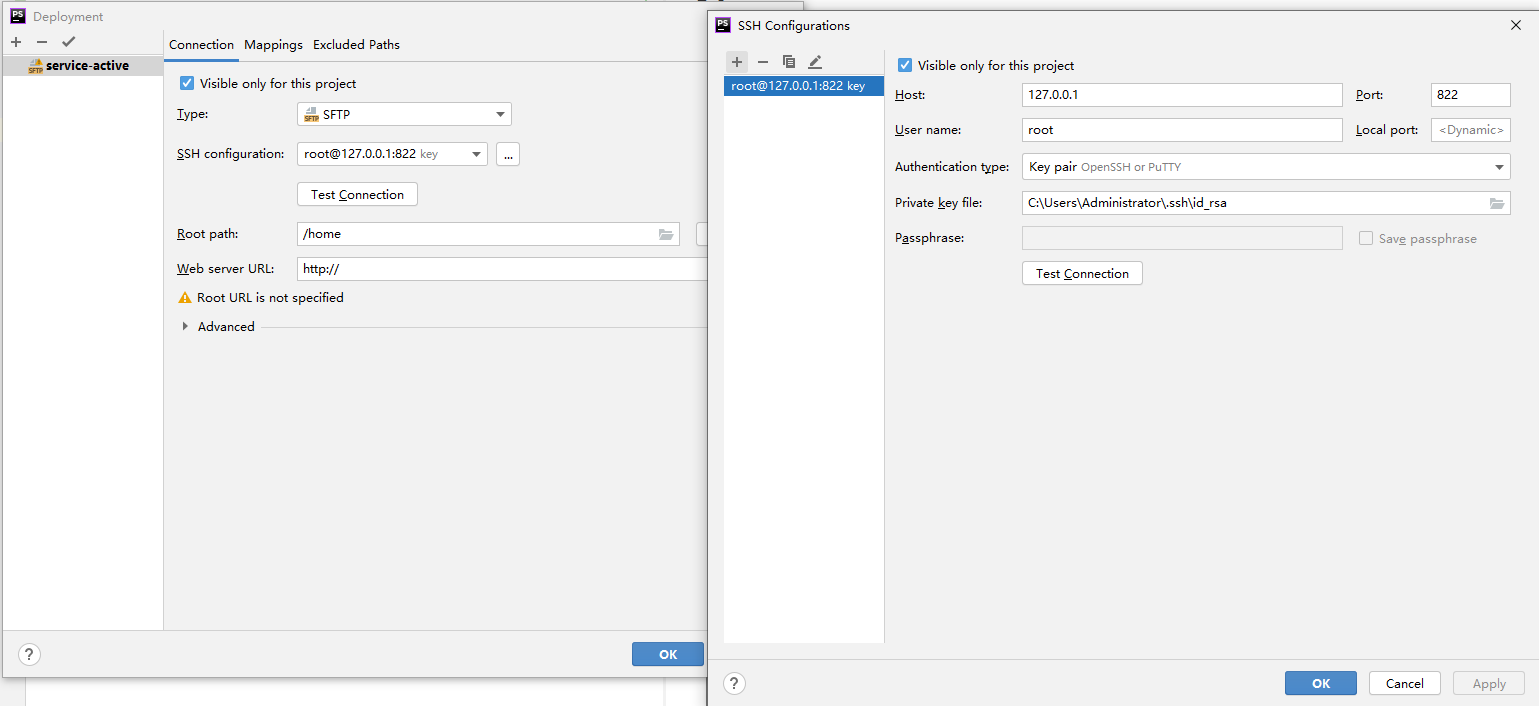
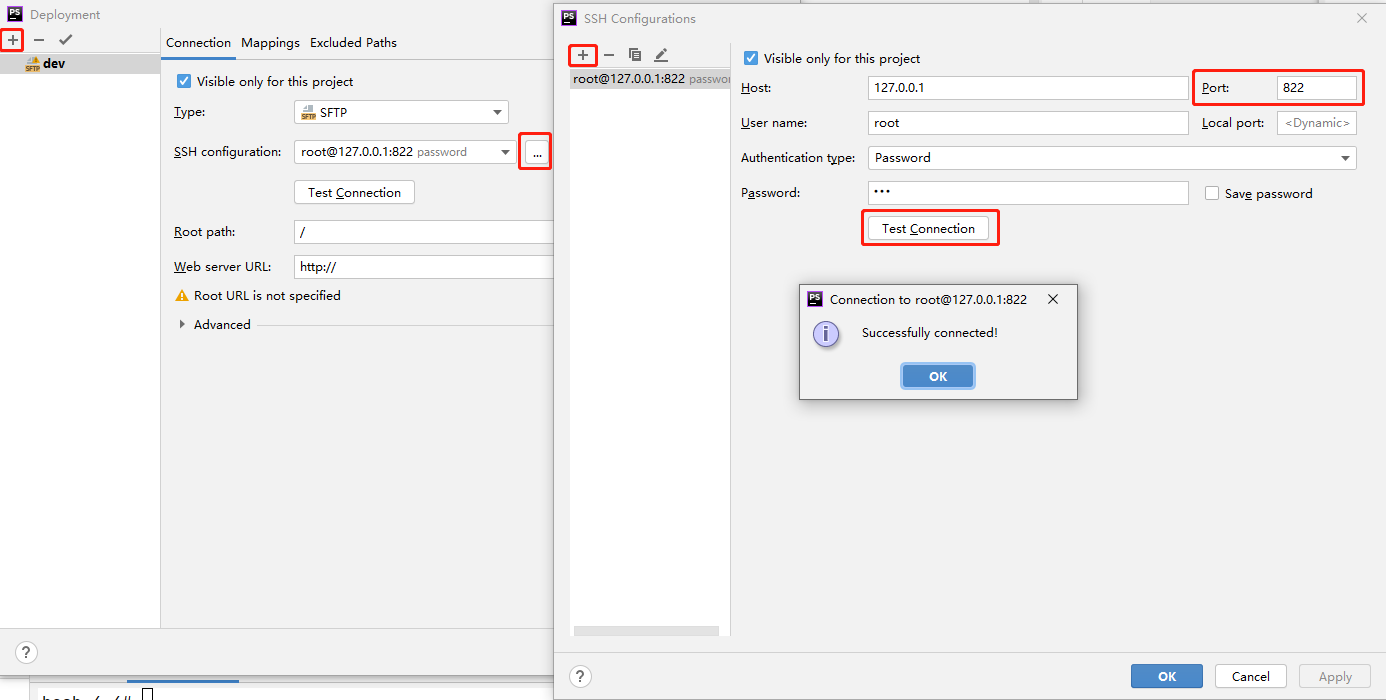
init

diff --git a/README.md b/README.md
@@ -2,26 +2,25 @@
 因`Docker` 底层原因, `Windows` / `Mac` 下挂载磁盘启动`Hyperf` 非常慢, 这里提供一个思路: 不挂载磁盘, 容器内部署`SFTP` 配合ide同步代码
 
 (新版Docker 配合WSL2 已经解决文件共享问题, [推荐使用](https://docs.docker.com/docker-for-windows/wsl/))
- 
-1. 下载`Dockerfile`, 将`Dockerfile`里`你的公钥` 替换为你的`SSH` 公钥 (例:C:\Users\Administrator\.ssh\id_rsa.pub)
 
-2. 命令行构建镜像 `docker build -t hyperf-windows-dev .`
+1. `docker pull zcmzcm/hyperf-windows-dev`
 
-3. 以下在`PHPStorm` 你的`Hyperf`项目中
-
-4. 打开菜单`Run/Edit Configurations...` 
-配置`Docker`, `Command`填`sh -c "/usr/sbin/sshd && /bin/bash"`, `Bind ports` 22端口为容器`SFTP`端口(写死), 822为向外暴露端口, 不可重复
+2. 打开菜单`Run/Edit Configurations...` 
+配置`Docker`, `Image`填`zcmzcm/hyperf-windows-dev`, `Bind ports` 22端口为容器`SFTP`端口(写死), 822为向外暴露端口, 不可重复
  ![avatar](./src/1.png)
 
-5. `Shift + F10` 启动容器, 留意这一步中`Attached Console` 窗口, 最后一步在这里输入
+3. `Shift + F10` 启动容器, 留意这一步中`Attached Console` 窗口, 最后一步在这里输入
  
-6. `Tools/Deployment/Configurations...` 配置SFTP, 填写上一步暴露的22端口和Dockerfile 里的公钥 
+4. 菜单`Tools/Deployment/Configurations...` 配置`SFTP`, 填写上一步暴露的822端口, `Password`任意填写 
 ![avatar](./src/2.png)
 
-7. Devployment path不要选根目录
+5. 其中`Mapping/Devployment path`不要选根目录(例`/home`), 与最后一步相同即可
 ![avatar](./src/4.png)
 
-8. 选中根目录, 勾选Automatic Upload, 上传文件到容器
+6. 1选中根目录, 2勾选`Automatic Upload`, 3上传文件到容器
 ![avatar](./src/3.png)
 
-9. 在第5步容器窗口中运行`hyperf-watch -c --dir /home`
+7. 在第2步容器窗口中运行`hyperf-watch -c --dir /home`
+
+8. 启动成功后修改`Tools/Deployment/Options...`如图所示, 方便切换分支
+![avatar](./src/5.png)
